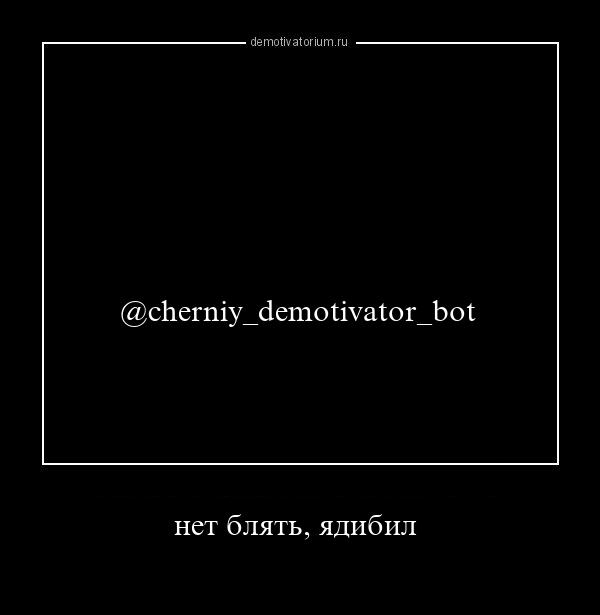
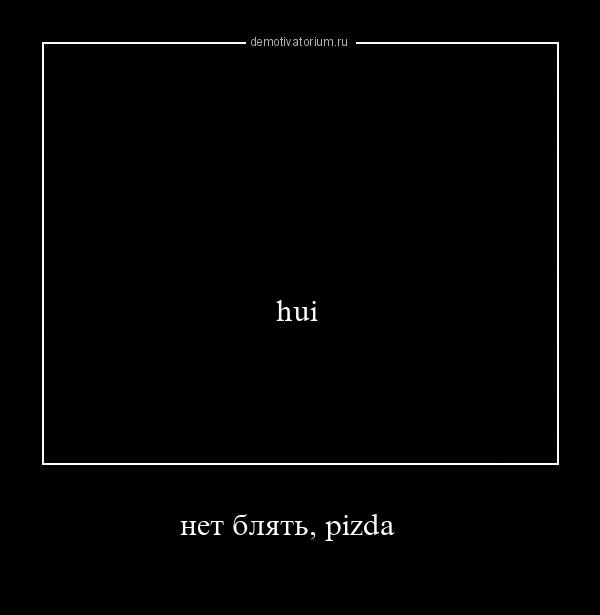
Finish demotivator, update with sqlite
Finish demotivator, update with sqlite

Changed region(s): [[0.27, 0.8341, 0.69, 0.8959], [0.18, 0.4943, 0.69, 0.5252], [0.72, 0.4943, 0.81, 0.5252]]

diff --git a/DemotivatorBot/main.py b/DemotivatorBot/main.py
@@ -1,12 +1,16 @@
 import telebot
-from antonyms import get_antonym_for_word, demotivate_sentence, write_to_template, filename, get_synonym_for_word
+import configparser
+from antonyms import get_antonym_for_word, demotivate_sentence, write_to_template, get_synonym_for_word
 from image_generator import generate_demotivator_image
 
-TOKEN = "1301791952:AAHOFxIT4merFrPrWtY1HbvRW8vU7uclLYQ"
-bot = telebot.TeleBot(TOKEN, threaded=False)
-bot.send_message(283382228, "Starting demotivator-bot...")
+config = configparser.ConfigParser()
+config.read('application.cfg')
 
-error = "Ой мне поплохело...\n"
+error_message = "Ой мне поплохело..."
+debug_id = 283382228
+
+bot = telebot.TeleBot(config["BOT"]["token"], threaded=False)
+bot.send_message(debug_id, "Starting Demotivator bot...")
 
 
 @bot.message_handler(commands=['start', 'help'])
@@ -14,17 +18,19 @@ def start(message):
     try:
         bot.send_message(
             message.chat.id,
-            text="Добро пожаловать в *Демотиватор-бота*\nЭто базовые комманды для управления волком.",
+            text="Добро пожаловать в *Демотиватор-бота*\nЭто базовые комманды для управления ботом.",
             parse_mode='markdown'
         )
 
         bot.send_message(
             message.chat.id,
             text="/demotivate {quote} - Демотивирует цитату.\n" + \
-                 "/add {key} {value} - Добавляет демотивирующую цитату.\n"
+                 "/synonym {word} - Находит синоним к данному слову. \n"
+                 "/antonym {word} - Находит антоним к данному слову. \n"
+                 "/add {key} {value} - Добавляет антоним.\n"
         )
     except Exception as e:
-        bot.send_message(message.chat.id, error)
+        bot.send_message(message.chat.id, error_message)
         log(str(e))
 
 
@@ -38,59 +44,61 @@ def demotivate(message):
         demotivated = "нет блять, " + demotivate_sentence(words)
         bot.send_message(message.chat.id, demotivated, parse_mode='markdown')
 
-        generate_demotivator_image(original, demotivated)
+        filename = generate_demotivator_image(original, demotivated)
 
-        image = open('result.jpg', 'rb')
+        image = open(filename, 'rb')
         bot.send_photo(message.chat.id, image)
 
     except Exception as e:
-        bot.send_message(message.chat.id, error + str(e))
+        bot.send_message(message.chat.id, error_message + str(e))
         log(str(e))
 
 
 @bot.message_handler(commands=['add'])
-def demotivate(message):
+def add(message):
     try:
         separated = message.text.split("/add")
         key_value = separated[1].strip().split()
-        key = key_value[0]
-        value = key_value[1]
+        key = key_value[0].strip()
+        value = key_value[1].strip()
 
-        write_to_template(filename, key, value)
+        write_to_template(key, value)
 
         bot.send_message(message.chat.id, key + "=" + value + " is added", parse_mode='markdown')
     except Exception as e:
-        bot.send_message(message.chat.id, error + str(e))
+        bot.send_message(message.chat.id, error_message + str(e))
         log(str(e))
 
 
 @bot.message_handler(commands=['synonym'])
-def demotivate(message):
+def synonym(message):
     try:
         separated = message.text.split("/synonym")
         word = separated[1]
 
-        bot.send_message(message.chat.id, "\n".join(get_synonym_for_word(word)), parse_mode='markdown')
+        bot.send_message(message.chat.id, "\n".join(get_synonym_for_word(word.strip())), parse_mode='markdown')
     except Exception as e:
-        bot.send_message(message.chat.id, error + str(e))
+        bot.send_message(message.chat.id, error_message + str(e))
         log(str(e))
 
+
 @bot.message_handler(commands=['antonym'])
-def demotivate(message):
+def antonym(message):
     try:
         separated = message.text.split("/antonym")
         word = separated[1]
 
-        bot.send_message(message.chat.id, "\n".join(get_antonym_for_word(word)), parse_mode='markdown')
+        bot.send_message(message.chat.id, "\n".join(get_antonym_for_word(word.strip())), parse_mode='markdown')
     except Exception as e:
-        bot.send_message(message.chat.id, error + str(e))
+        bot.send_message(message.chat.id, error_message + str(e))
         log(str(e))
+
 
 """ DEBUG """
 
 
 def log(text):
-    bot.send_message(283382228, text=f"{text}")
+    bot.send_message(debug_id, text=f"{text}")
 
 
 bot.polling()

diff --git a/DemotivatorBot/antonyms.py b/DemotivatorBot/antonyms.py
@@ -1,42 +1,28 @@
 import requests
+import sqlite3
 
 URL_ANTONYMS = "https://antonymonline.ru/antonyms.json?word="
 URL_SYNONYMS = "https://synonymonline.ru/assets/json/synonyms.json"
 filename = "templates.cfg"
 templates = {}
 
-def read_template(filename):
-    with open(filename, "r", encoding="utf-8") as f:
-        return generate_template(f.readlines())
+connection = sqlite3.connect("demotivator.db")
 
 
-def write_to_template(filename, key, value):
-    global templates
-    with open(filename, "a", encoding="utf-8") as f:
-        f.write("\n"+key + "," + value)
-    templates = read_template(filename)
 
+def write_to_template(key, value):
+    cursor = connection.cursor()
+    cursor.execute('''INSERT INTO antonyms VALUES (?,?)''', (key, value))
+    connection.commit()
 
-def generate_template(lines):
-    dict = {}
-    for line in lines:
-        stripped = line.strip()
-        if "," not in line: continue
-        key_value_pair = stripped.split(",")
-        key = key_value_pair[0].strip()
-        value = key_value_pair[1].strip()
-        dict[key] = value
-        dict[value] = key
-
-    return dict
-
-
-templates = read_template(filename)
-
+def getAntonym(word):
+    cursor = connection.cursor()
+    return cursor.execute('''SELECT * FROM antonyms WHERE "key"=? OR "value"=?''', (word, word)).fetchone()
 
 def get_antonym_for_word(word):
-    if word in templates.keys():
-        return templates[word]
+    antonym = getAntonym(word)
+    if antonym != None:
+        return [antonym[1] if antonym[0] == word else antonym[0]]
     return requests.get(URL_ANTONYMS + word).json()["antonyms"]
 
 
@@ -44,12 +30,11 @@ def get_synonym_for_word(word):
     payload = {"word": word}
     return requests.post(URL_SYNONYMS, data=payload).json()["synonyms"]
 
-
 def demotivate_sentence(words):
     negative = []
     for word in words:
         try:
-            negative.append(try_find_antonyms_and_synonyms(word))
+            negative.append(try_find_antonyms_and_synonyms(word.strip()))
         except Exception as e:
             raise Exception("Unable to find antonyms or synonyms for " + word)
     return " ".join(negative)
@@ -61,3 +46,9 @@ def try_find_antonyms_and_synonyms(word):
     except Exception as e:
         print("Trying to find synonym for " + word)
         return get_synonym_for_word(word)[0]
+
+def create_db():
+    cursor = connection.cursor()
+    cursor.execute("CREATE TABLE antonyms (key text, value text)")
+    connection.commit()
+# create_db()

diff --git a/DemotivatorBot/image_generator.py b/DemotivatorBot/image_generator.py
@@ -2,15 +2,18 @@ from PIL import Image, ImageFont, ImageDraw
 
 title_font = ImageFont.truetype('times-new-roman-cyr.ttf', 30)
 
+filename = "result.jpg"
+
 
 def generate_demotivator_image(original, demotivator):
     my_image = Image.open("sample_demotivator.png")
     image_editable = ImageDraw.Draw(my_image)
 
-    w, h = image_editable.textsize("W"*round(len(demotivator)*2.5))
-    image_editable.text((300-w/2, 500+3*(h/4)), demotivator, (255, 255, 255), font=title_font)
+    w, h = image_editable.textsize("W" * round(len(demotivator) * 2.5))
+    image_editable.text((300 - w / 2, 500 + 3 * (h / 4)), demotivator, (255, 255, 255), font=title_font)
 
-    w, h = image_editable.textsize("W"*round(len(original)*2.5))
-    image_editable.text((300-w/2, 300-(h/2)), original, (255, 255, 255), font=title_font)
+    w, h = image_editable.textsize("W" * round(len(original) * 2.5))
+    image_editable.text((300 - w / 2, 300 - (h / 2)), original, (255, 255, 255), font=title_font)
 
-    my_image.save("result.jpg")
+    my_image.save(filename)
+    return filename

diff --git a/volkbot/handlers.py b/volkbot/handlers.py
@@ -1,4 +1,5 @@
 import telebot
+import configparser
 import random
 from django.conf import settings
 from main.models import Quote
